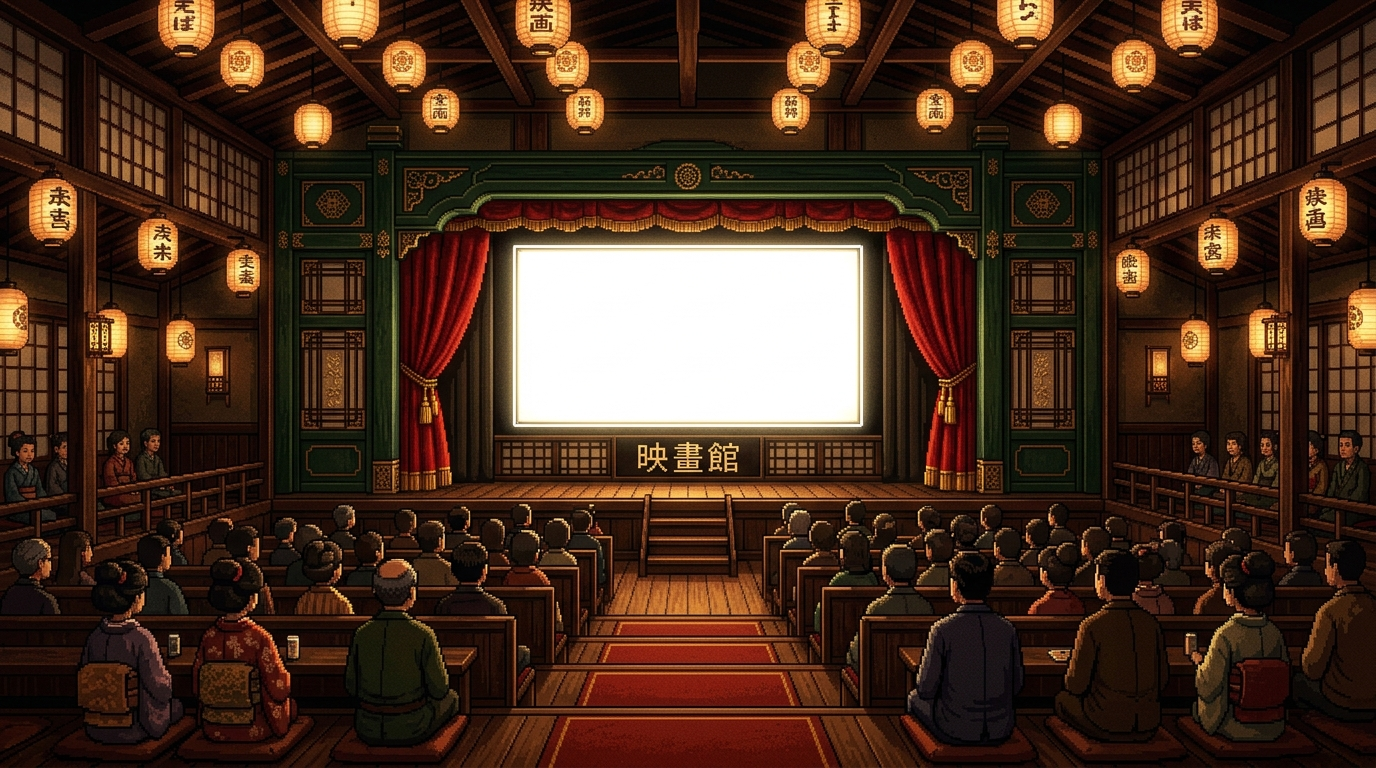
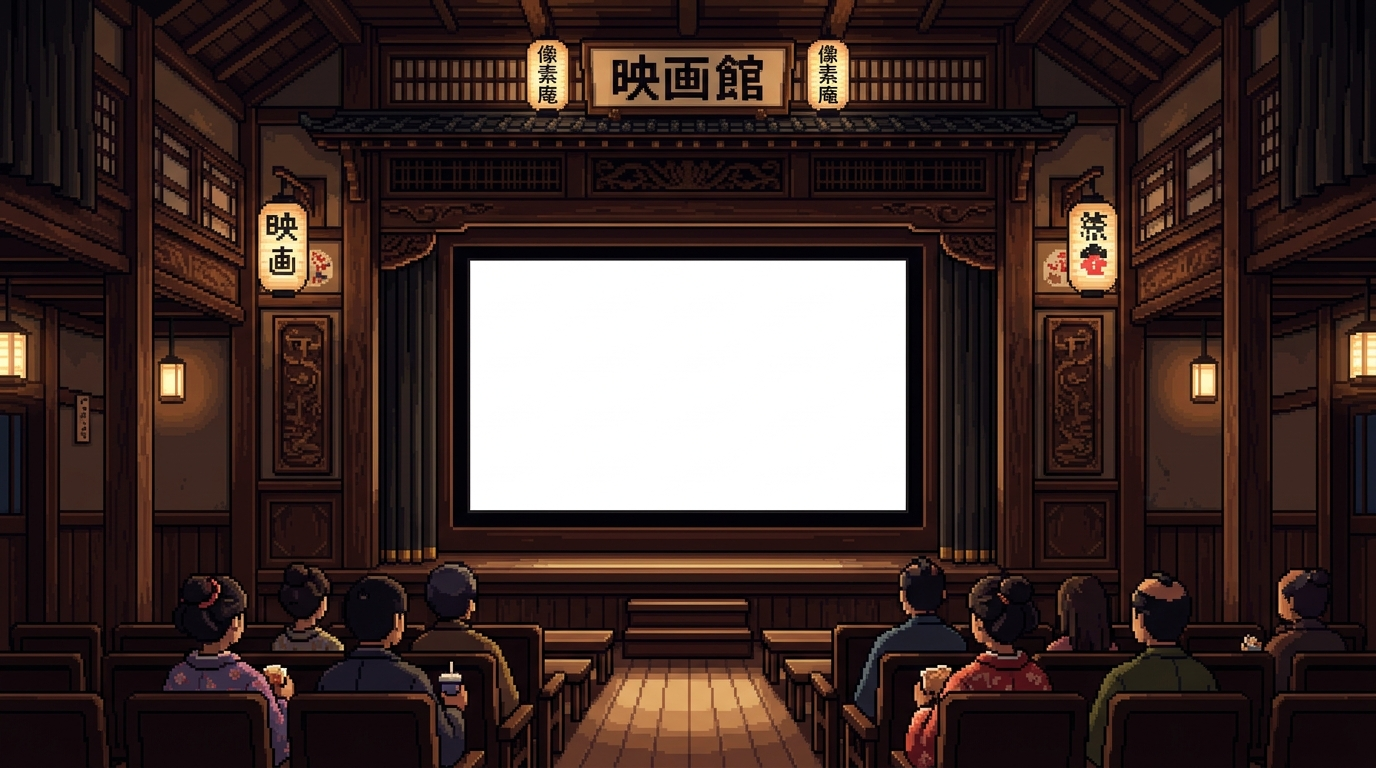
feat: use perfectly framed pixel art screen with naked video player overlay

diff --git a/sw.js b/sw.js
@@ -1,4 +1,4 @@
-const CACHE = 'minna-kotoba-v98';
+const CACHE = 'minna-kotoba-v99';
 const ASSETS = [
   './', './index.html', './styles.css', './app.js', './vocab.json', './kaiwa.json', './manifest.webmanifest', './bg_pixel_cinema.jpg', './bg_cinema_wall.jpg', './bg_grammar.jpg', './bg_home.jpg', './bg_kanji.jpg', './bg_learn.jpg', './bg_lesson_1.jpg', './bg_lesson_2.jpg', './bg_lesson_3.jpg', './bg_more.jpg', './bg_more_new.jpg', './bg_practice.jpg', './bg_practice_new.jpg', './fuji.jpg', './fuji_wide.jpg', './icon_grammar.png', './icon_home.png', './icon_kanji.png', './icon_lessons.png', './icon_listening.png', './icon_mocktest.png', './icon_vocabulary.png', './icons/icon-180.png', './icons/icon-192.png', './icons/icon-512.png'
 ];

diff --git a/styles.css b/styles.css
@@ -1953,14 +1953,14 @@ body.listening-active {
 
 .cinema-screen-overlay {
   position: absolute;
-  top: 31%;
-  left: 28%;
-  width: 44%;
-  aspect-ratio: 16 / 9;
+  top: 33.98%;
+  left: 34.23%;
+  width: 31.47%;
+  height: 32.29%;
   background: #000;
-  border: 4px solid #142E27;
-  outline: 2px solid #F3D99B;
-  box-shadow: inset 0 0 20px rgba(0,0,0,0.8), 0 0 40px rgba(243, 217, 155, 0.4);
+  border: none;
+  outline: none;
+  box-shadow: none;
   display: flex;
   align-items: center;
   justify-content: center;

diff --git a/find_samurai_screen.py b/find_samurai_screen.py
@@ -1,0 +1,44 @@
+import numpy as np
+from PIL import Image
+
+img = Image.open('bg_pixel_cinema_wide.jpg').convert('RGB')
+data = np.array(img)
+
+r, g, b = data.T
+# The screen is mostly grayscale (samurai movie) with a slight blue tint, while the rest of the image is very warm (red/yellow) or dark green.
+# Let's find pixels that are somewhat bright and desaturated.
+brightness = (r.astype(int) + g.astype(int) + b.astype(int)) / 3
+color_diff = np.abs(r.astype(int) - g.astype(int)) + np.abs(g.astype(int) - b.astype(int))
+
+# High brightness, low color saturation (grayscale)
+is_screen = (brightness > 100) & (color_diff < 40)
+mask = is_screen.T.astype(np.uint8) * 255
+
+H, W = mask.shape
+cy_start, cy_end = int(H*0.2), int(H*0.7)
+cx_start, cx_end = int(W*0.2), int(W*0.8)
+
+center_mask = mask[cy_start:cy_end, cx_start:cx_end]
+rows = np.any(center_mask, axis=1)
+cols = np.any(center_mask, axis=0)
+
+if np.any(rows) and np.any(cols):
+    ymin, ymax = np.where(rows)[0][[0, -1]]
+    xmin, xmax = np.where(cols)[0][[0, -1]]
+    
+    ymin += cy_start
+    ymax += cy_start
+    xmin += cx_start
+    xmax += cx_start
+    
+    w = xmax - xmin
+    h = ymax - ymin
+    
+    xp = (xmin / W) * 100
+    yp = (ymin / H) * 100
+    wp = (w / W) * 100
+    hp = (h / H) * 100
+    
+    print(f"Screen found at X: {xp:.2f}%, Y: {yp:.2f}%, W: {wp:.2f}%, H: {hp:.2f}%")
+else:
+    print("No screen found")

diff --git a/find_screen3.py b/find_screen3.py
@@ -1,0 +1,39 @@
+import numpy as np
+from PIL import Image
+
+img = Image.open('bg_pixel_cinema.jpg').convert('RGB')
+data = np.array(img)
+
+r, g, b = data.T
+bright = (r > 240) & (g > 240) & (b > 240)
+mask = bright.T.astype(np.uint8) * 255
+
+H, W = mask.shape
+cy_start, cy_end = int(H*0.2), int(H*0.8)
+cx_start, cx_end = int(W*0.2), int(W*0.8)
+
+center_mask = mask[cy_start:cy_end, cx_start:cx_end]
+rows = np.any(center_mask, axis=1)
+cols = np.any(center_mask, axis=0)
+
+if np.any(rows) and np.any(cols):
+    ymin, ymax = np.where(rows)[0][[0, -1]]
+    xmin, xmax = np.where(cols)[0][[0, -1]]
+    
+    ymin += cy_start
+    ymax += cy_start
+    xmin += cx_start
+    xmax += cx_start
+    
+    w = xmax - xmin
+    h = ymax - ymin
+    
+    xp = (xmin / W) * 100
+    yp = (ymin / H) * 100
+    wp = (w / W) * 100
+    hp = (h / H) * 100
+    
+    print(f"Screen found at X: {xp:.2f}%, Y: {yp:.2f}%, W: {wp:.2f}%, H: {hp:.2f}%")
+    print(f"Aspect ratio: {w/h:.2f}")
+else:
+    print("No screen found")

diff --git a/find_inner.py b/find_inner.py
@@ -1,0 +1,35 @@
+import numpy as np
+from PIL import Image
+
+img = Image.open('bg_pixel_cinema_wide.jpg').convert('RGB')
+data = np.array(img)
+H, W = data.shape[:2]
+
+# The screen is bright, the border is very dark (#000000 to #142E27).
+# Let's crop to center and find the bounding box of the non-dark area.
+r, g, b = data.T
+brightness = (r.astype(int) + g.astype(int) + b.astype(int)) / 3
+
+is_bright = brightness > 50
+mask = is_bright.T
+
+cy_start, cy_end = int(H*0.25), int(H*0.75)
+cx_start, cx_end = int(W*0.2), int(W*0.8)
+
+center_mask = mask[cy_start:cy_end, cx_start:cx_end]
+rows = np.any(center_mask, axis=1)
+cols = np.any(center_mask, axis=0)
+
+ymin, ymax = np.where(rows)[0][[0, -1]]
+xmin, xmax = np.where(cols)[0][[0, -1]]
+
+ymin += cy_start
+ymax += cy_start
+xmin += cx_start
+xmax += cx_start
+
+w = xmax - xmin
+h = ymax - ymin
+
+print(f"Inner screen: x={xmin/W*100:.2f}%, y={ymin/H*100:.2f}%, w={w/W*100:.2f}%, h={h/H*100:.2f}%")
+print(f"Aspect ratio: {w/h:.2f}")

diff --git a/draw_test.py b/draw_test.py
@@ -1,0 +1,18 @@
+import numpy as np
+from PIL import Image, ImageDraw
+
+img = Image.open('bg_pixel_cinema_wide.jpg').convert('RGB')
+draw = ImageDraw.Draw(img)
+
+W, H = img.size
+
+# Let's adjust based on visual.
+w = W * 0.556
+h = w * (9/16)
+x = (W - w) / 2
+y = H * 0.354  # tweak top
+
+draw.rectangle([x, y, x+w, y+h], outline="red", width=5)
+
+img.save('C:/Users/sathy/.gemini/antigravity-ide/brain/74148e4e-a10a-4bf5-94ad-8f8399e35a7a/bg_test_bounds_2.jpg')
+print(f"Test 2 saved. x: {x/W*100:.2f}%, y: {y/H*100:.2f}%, w: {w/W*100:.2f}%, h: {h/H*100:.2f}%")

diff --git a/draw_black.py b/draw_black.py
@@ -1,0 +1,22 @@
+import numpy as np
+from PIL import Image, ImageDraw
+
+img = Image.open('bg_pixel_cinema_wide.jpg').convert('RGB')
+draw = ImageDraw.Draw(img)
+
+W, H = img.size
+
+# Coordinates found
+xp = 21.0
+yp = 33.0
+wp = 58.0
+hp = 34.0
+
+x = W * xp / 100
+y = H * yp / 100
+w = W * wp / 100
+h = H * hp / 100
+
+draw.rectangle([x, y, x+w, y+h], fill="black")
+
+img.save('C:/Users/sathy/.gemini/antigravity-ide/brain/74148e4e-a10a-4bf5-94ad-8f8399e35a7a/bg_black_screen.jpg')
